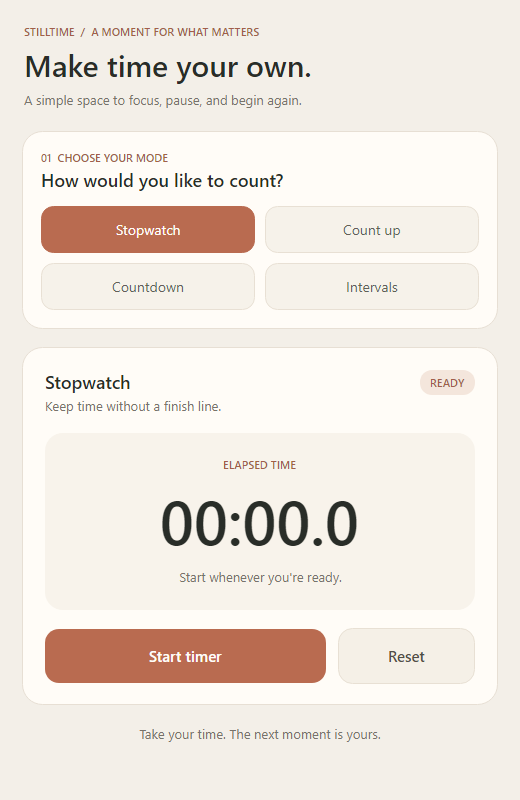
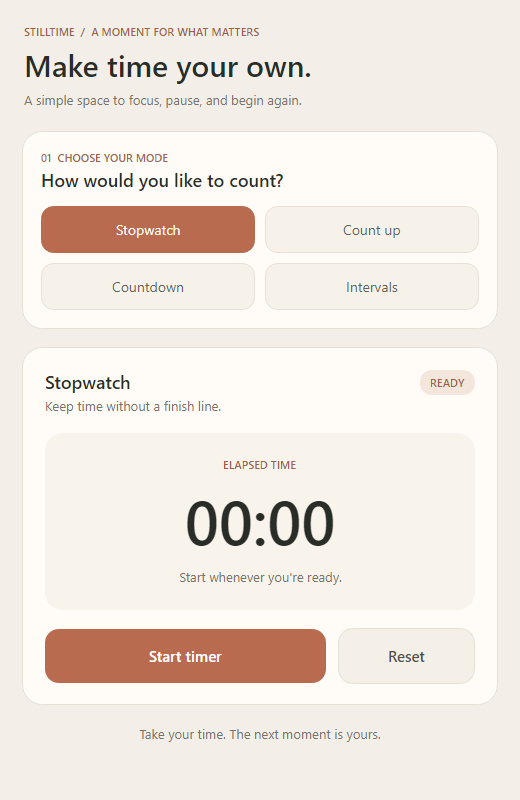
Show whole seconds in timer displays

Changed region(s): [[0.3077, 0.625, 0.7077, 0.6875]]

diff --git a/Timer/ViewModels/MainViewModel.cs b/Timer/ViewModels/MainViewModel.cs
@@ -37,7 +37,7 @@ public partial class MainViewModel : ViewModelBase
     [ObservableProperty] private string _rounds = "4";
     [ObservableProperty] private string _modeTitle = "Stopwatch";
     [ObservableProperty] private string _modeDescription = "Keep time without a finish line.";
-    [ObservableProperty] private string _displayTime = "00:00.0";
+    [ObservableProperty] private string _displayTime = "00:00";
     [ObservableProperty] private string _statusLabel = "READY";
     [ObservableProperty] private string _phaseLabel = "ELAPSED TIME";
     [ObservableProperty] private string _detailLabel = "Start whenever you're ready.";
@@ -142,7 +142,7 @@ public partial class MainViewModel : ViewModelBase
             Refresh();
         else
         {
-            DisplayTime = "--:--.-";
+            DisplayTime = "--:--";
             StatusLabel = "READY";
             PhaseLabel = "SET YOUR TIME";
             DetailLabel = "Check the values below.";
@@ -200,7 +200,7 @@ public partial class MainViewModel : ViewModelBase
         {
             TimerMode.Countdown or TimerMode.Intervals => snapshot.Remaining,
             _ => snapshot.Elapsed
-        });
+        }, roundUp: snapshot.Mode is TimerMode.Countdown or TimerMode.Intervals);
         StatusLabel = snapshot.Status switch
         {
             TimerStatus.Ready => "READY",
@@ -259,11 +259,18 @@ public partial class MainViewModel : ViewModelBase
         return true;
     }
 
-    private static string FormatTime(TimeSpan time)
+    private static string FormatTime(TimeSpan time, bool roundUp = false)
     {
-        if (time.TotalHours >= 1)
-            return $"{(int)time.TotalHours:00}:{time.Minutes:00}:{time.Seconds:00}";
+        var totalSeconds = time.Ticks / TimeSpan.TicksPerSecond;
+        if (roundUp && time.Ticks % TimeSpan.TicksPerSecond != 0)
+            totalSeconds++;
 
-        return $"{(int)time.TotalMinutes:00}:{time.Seconds:00}.{time.Milliseconds / 100}";
+        var hours = totalSeconds / 3600;
+        var minutes = totalSeconds % 3600 / 60;
+        var seconds = totalSeconds % 60;
+        if (hours > 0)
+            return $"{hours:00}:{minutes:00}:{seconds:00}";
+
+        return $"{minutes:00}:{seconds:00}";
     }
 }

diff --git a/Timer.App.Tests/MainViewModelTests.cs b/Timer.App.Tests/MainViewModelTests.cs
@@ -12,16 +12,16 @@ public sealed class MainViewModelTests
         var viewModel = new MainViewModel();
         viewModel.SelectCountdownCommand.Execute(null);
 
-        Assert.AreEqual("05:00.0", viewModel.DisplayTime);
+        Assert.AreEqual("05:00", viewModel.DisplayTime);
         Assert.IsTrue(viewModel.IsDurationMode);
 
         viewModel.DurationSeconds = "75";
         Assert.IsTrue(viewModel.HasError);
-        Assert.AreEqual("--:--.-", viewModel.DisplayTime);
+        Assert.AreEqual("--:--", viewModel.DisplayTime);
 
         viewModel.DurationSeconds = "30";
         Assert.IsFalse(viewModel.HasError);
-        Assert.AreEqual("05:30.0", viewModel.DisplayTime);
+        Assert.AreEqual("05:30", viewModel.DisplayTime);
     }
 
     [TestMethod]
@@ -46,7 +46,7 @@ public sealed class MainViewModelTests
 
         viewModel.ResetCommand.Execute(null);
         Assert.AreEqual("READY", viewModel.StatusLabel);
-        Assert.AreEqual("00:00.0", viewModel.DisplayTime);
+        Assert.AreEqual("00:00", viewModel.DisplayTime);
         Assert.IsTrue(viewModel.CanEditSettings);
     }
 
@@ -60,7 +60,7 @@ public sealed class MainViewModelTests
         viewModel.SelectIntervalsCommand.Execute(null);
         Assert.IsTrue(viewModel.IsIntervalsSelected);
         Assert.AreEqual("READY", viewModel.StatusLabel);
-        Assert.AreEqual("00:45.0", viewModel.DisplayTime);
+        Assert.AreEqual("00:45", viewModel.DisplayTime);
         Assert.AreEqual("Round 1 of 4  ·  work", viewModel.DetailLabel);
         Assert.IsTrue(viewModel.CanEditSettings);
     }
